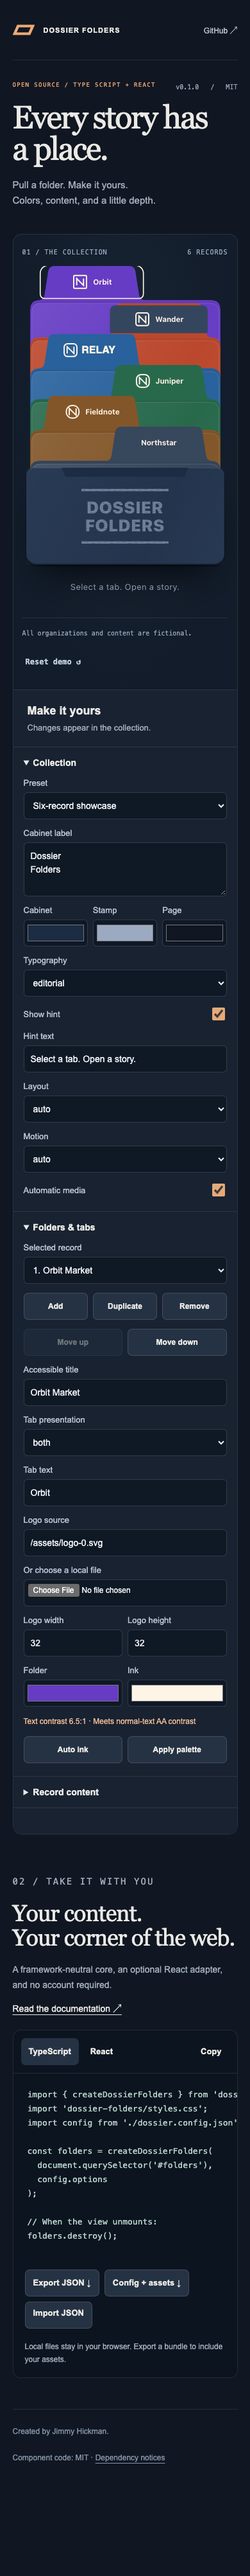
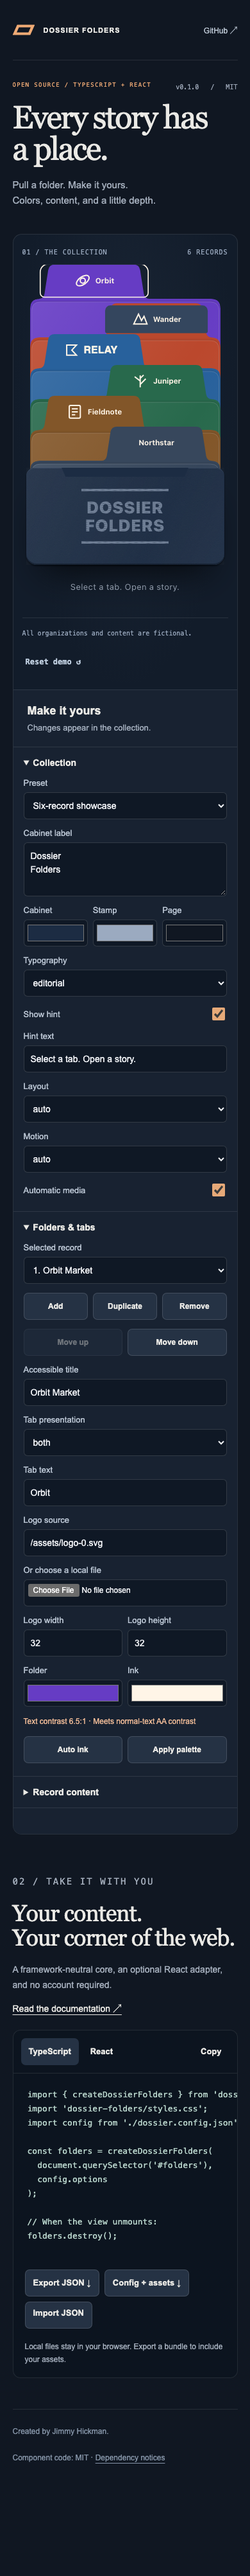
Harden portable asset exports and record verified component results

Changed region(s): [[0.2769, 0.0935, 0.4615, 0.1871], [0.5231, 0.0935, 0.6154, 0.1871]]

diff --git a/demo/main.ts b/demo/main.ts
@@ -1,3 +1,4 @@
+import { mapAssets, safeArchivePath } from "./portable.ts";
 import "../src/styles.css";
 import "./style.css";
 import {
@@ -332,7 +333,7 @@ controls.addEventListener("click", (event) => {
     }
   }
   if (action === "auto-ink")
-    r.ink = luminance(r.fill) > 0.179 ? "#152238" : "#fff5e7";
+    r.ink = luminance(r.fill) > 0.179 ? "#000000" : "#ffffff";
   if (action === "palette") {
     const colors = [
       "#2d4860",
@@ -354,12 +355,14 @@ controls.addEventListener("click", (event) => {
   }
 });
 function portable() {
-  const c = clone(config);
-  let serialized = JSON.stringify(c);
-  for (const [url, { path }] of uploads)
-    serialized = serialized.split(url).join(path);
-  serialized = serialized.split(`${base}assets/`).join("assets/");
-  return JSON.parse(serialized) as DossierConfig;
+  return mapAssets(
+    config,
+    (source) =>
+      uploads.get(source)?.path ??
+      (source.startsWith(`${base}assets/`)
+        ? source.replace(`${base}assets/`, "assets/")
+        : source),
+  );
 }
 function download(blob: Blob, name: string) {
   const url = URL.createObjectURL(blob),
@@ -418,13 +421,13 @@ document.querySelector("#export-zip")!.addEventListener("click", async () => {
         ),
       };
     const paths = new Set<string>();
-    function walk(x: any) {
-      if (typeof x === "string" && x.startsWith("assets/")) paths.add(x);
-      else if (Array.isArray(x)) x.forEach(walk);
-      else if (x && typeof x === "object") Object.values(x).forEach(walk);
-    }
-    walk(c);
+    mapAssets(c, (source) => {
+      if (source.startsWith("assets/")) paths.add(source);
+      return source;
+    });
     for (const path of paths) {
+      if (!safeArchivePath(path))
+        throw new Error(`Unsafe archive asset path: ${path}`);
       const local = [...uploads.values()].find((v) => v.path === path);
       if (local) files[path] = new Uint8Array(await local.file.arrayBuffer());
       else {
@@ -454,7 +457,9 @@ document
       file = input.files?.[0];
     if (!file) return;
     try {
-      const next = parseConfig(await file.text());
+      const next = mapAssets(parseConfig(await file.text()), (source) =>
+        source.startsWith("assets/") ? `${base}${source}` : source,
+      );
       if (next.options.records.length < 1 || next.options.records.length > 12)
         throw new Error("The editor supports 1–12 records.");
       selected = 0;

diff --git a/tests/editor.spec.ts b/tests/editor.spec.ts
@@ -71,13 +71,11 @@ test("invalid configuration preserves the preview; JSON export round trips", asy
   page,
 }) => {
   await page.goto("/");
-  await page
-    .locator("#import-json")
-    .setInputFiles({
-      name: "bad.json",
-      mimeType: "application/json",
-      buffer: Buffer.from('{"version":99}'),
-    });
+  await page.locator("#import-json").setInputFiles({
+    name: "bad.json",
+    mimeType: "application/json",
+    buffer: Buffer.from('{"version":99}'),
+  });
   await expect(page.locator("#editor-status")).toContainText("version");
   await expect(page.locator(".folder-tab")).toHaveCount(6);
   const download = page.waitForEvent("download");
@@ -136,4 +134,18 @@ test("200 percent zoom equivalent keeps editor and modal reachable", async ({
   await expect(
     page.getByRole("button", { name: "Open Northstar Archive", exact: true }),
   ).toBeFocused();
+});
+test("auto ink chooses accessible contrast on middle-gray folders", async ({
+  page,
+}) => {
+  await page.goto("/");
+  await page.locator('[data-path="options.records.0.fill"]').fill("#808080");
+  await expect(page.locator('[data-folder="orbit-market"]')).toHaveAttribute(
+    "style",
+    /808080/,
+  );
+  await page.locator('[data-action="auto-ink"]').click();
+  await expect(page.locator("#contrast")).toContainText(
+    "Meets normal-text AA contrast",
+  );
 });

diff --git a/demo/portable.ts b/demo/portable.ts
@@ -1,0 +1,31 @@
+import type { DossierConfig } from "../src/types.ts";
+/** Rewrite asset fields only. Captions, links, and record copy are never altered. */
+export function mapAssets(
+  config: DossierConfig,
+  map: (source: string) => string,
+): DossierConfig {
+  const output = structuredClone(config);
+  const visit = (value: unknown): void => {
+    if (Array.isArray(value)) {
+      value.forEach(visit);
+      return;
+    }
+    if (!value || typeof value !== "object") return;
+    for (const [key, item] of Object.entries(value)) {
+      if ((key === "src" || key === "poster") && typeof item === "string")
+        (value as Record<string, unknown>)[key] = map(item);
+      else visit(item);
+    }
+  };
+  visit(output.options.records);
+  return output;
+}
+export function safeArchivePath(path: string): boolean {
+  return (
+    path.startsWith("assets/") &&
+    !path.includes("\\") &&
+    path
+      .split("/")
+      .every((part) => part !== ".." && part !== "." && part.length > 0)
+  );
+}
